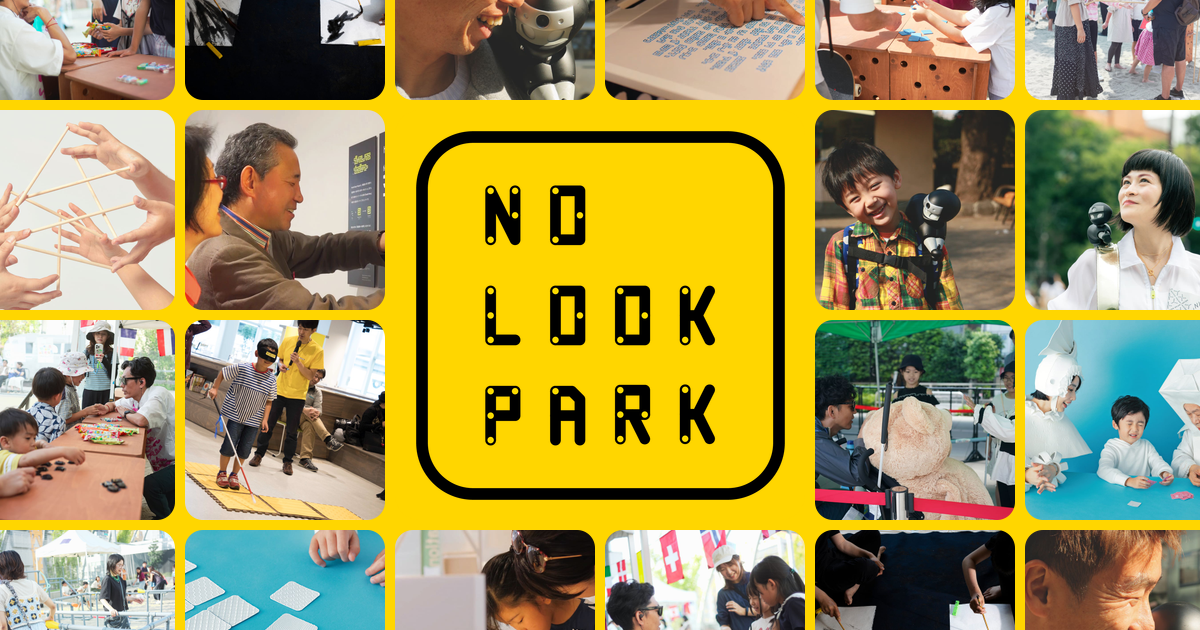
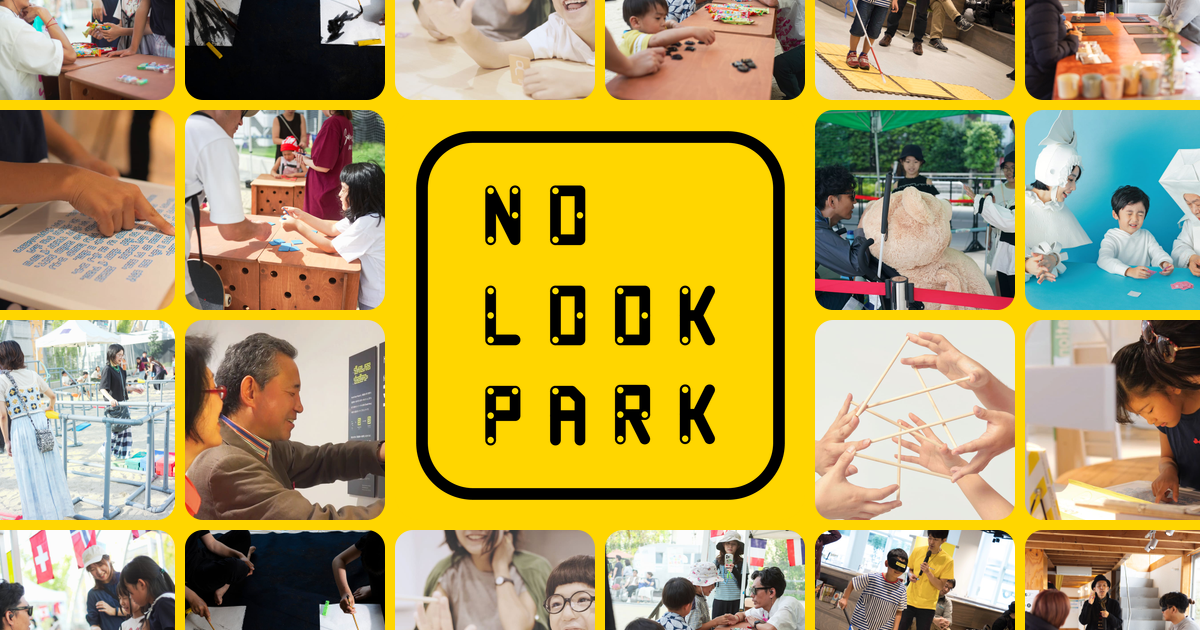
Match OG/note/Peatix images to reduced hero photo set; enlarge nav ticket button
- Regenerate OGP/Twitter/note/Peatix from the same 18 photos as the hero
  (exclude ninnin_keyshot and wall-02/05 — NINNIN robot, unconfirmed)
- Nav: slightly larger ticket button (px-7 py-3, text-sm)

diff --git a/components/Nav.tsx b/components/Nav.tsx
@@ -52,7 +52,7 @@ export default function Nav() {
             href={TICKET_URL}
             target="_blank"
             rel="noopener noreferrer"
-            className="rounded-full bg-ink px-6 py-2.5 text-[13px] tracking-[1px] text-brand transition-transform hover:scale-105"
+            className="rounded-full bg-ink px-7 py-3 text-sm tracking-[1px] text-brand transition-transform hover:scale-105"
           >
             {NAV_TICKET}
           </a>
